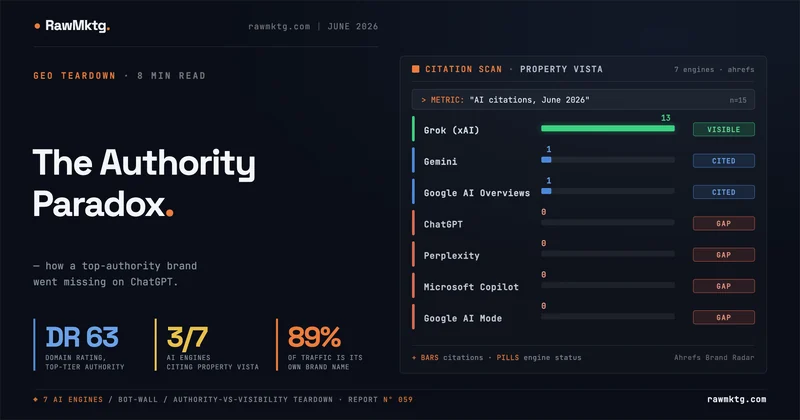
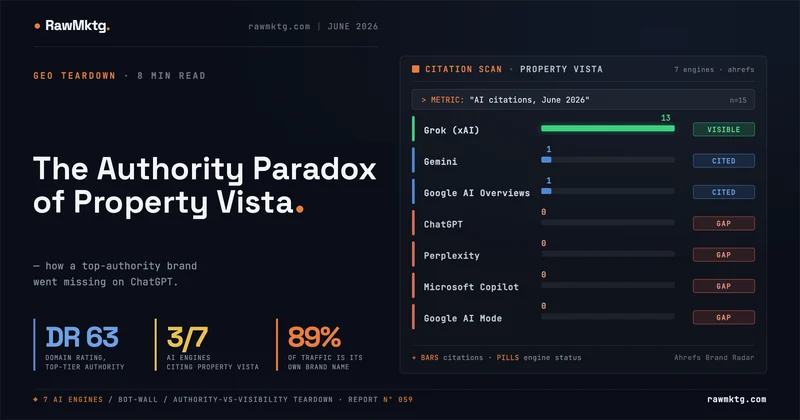
Retitle to 'The Authority Paradox of Property Vista' (text + re-rendered hero in Space Grotesk Bold)

Changed region(s): [[0.0312, 0.3405, 0.4688, 0.5262]]

diff --git a/blogs/property-vista-authority-paradox.html b/blogs/property-vista-authority-paradox.html
@@ -6,7 +6,7 @@
   <script>window.dataLayer=window.dataLayer||[];function gtag(){dataLayer.push(arguments);}gtag('js',new Date());gtag('config','G-4B3LL6MJKN');(function(){function l(){if(window.__gaLd)return;window.__gaLd=1;var s=document.createElement('script');s.async=1;s.src='https://www.googletagmanager.com/gtag/js?id=G-4B3LL6MJKN';document.head.appendChild(s);}if(document.readyState==='complete')l();else window.addEventListener('load',l);setTimeout(l,3000);})();</script>
   <meta name="google-adsense-account" content="ca-pub-5952288317022852" />
   <meta name="robots" content="index, follow" />
-  <title>The Authority Paradox &middot; Property Vista GEO Teardown &middot; rawmktg.</title>
+  <title>The Authority Paradox of Property Vista &middot; rawmktg.</title>
   <meta name="viewport" content="width=device-width, initial-scale=1" />
   <meta name="description" content="A single-brand GEO teardown of Property Vista, a DR-63 multifamily proptech brand with strong backlinks, rich schema and clean technical hygiene that is nearly invisible on ChatGPT and Perplexity. The cause: a JavaScript bot wall that serves every AI crawler a challenge page instead of content." />
   <meta name="author" content="Vinayak Ravi" />
@@ -17,19 +17,19 @@
   <link rel="canonical" href="https://rawmktg.com/blogs/property-vista-authority-paradox" />
   <meta property="og:type" content="article" />
   <meta property="og:url" content="https://rawmktg.com/blogs/property-vista-authority-paradox" />
-  <meta property="og:title" content="The Authority Paradox" />
+  <meta property="og:title" content="The Authority Paradox of Property Vista" />
   <meta property="og:description" content="A single-brand GEO teardown of Property Vista, a DR-63 multifamily proptech brand with strong backlinks, rich schema and clean technical hygiene that is nearly invisible on ChatGPT and Perplexity. The cause: a JavaScript bot wall that serves every AI crawler a challenge page instead of content." />
   <meta property="og:site_name" content="rawmktg." />
   <meta property="og:image" content="https://rawmktg.com/assets/images/property-vista-authority-paradox-header.webp" />
   <meta property="article:published_time" content="2026-06-11T00:00:00Z" />
   <meta property="article:modified_time" content="2026-06-11T00:00:00Z" />
   <meta name="twitter:card" content="summary_large_image" />
-  <meta name="twitter:title" content="The Authority Paradox" />
+  <meta name="twitter:title" content="The Authority Paradox of Property Vista" />
   <meta name="twitter:description" content="A single-brand GEO teardown of Property Vista, a DR-63 multifamily proptech brand with strong backlinks, rich schema and clean technical hygiene that is nearly invisible on ChatGPT and Perplexity. The cause: a JavaScript bot wall that serves every AI crawler a challenge page instead of content." />
   <meta name="twitter:image" content="https://rawmktg.com/assets/images/property-vista-authority-paradox-header.webp" />
-  <script type="application/ld+json">{"@context": "https://schema.org", "@type": "BlogPosting", "headline": "The Authority Paradox", "description": "A single-brand GEO teardown of Property Vista, a DR-63 multifamily proptech brand with strong backlinks, rich schema and clean technical hygiene that is nearly invisible on ChatGPT and Perplexity. The cause: a JavaScript bot wall that serves every AI crawler a challenge page instead of content.", "image": "https://rawmktg.com/assets/images/property-vista-authority-paradox-header.webp", "url": "https://rawmktg.com/blogs/property-vista-authority-paradox", "datePublished": "2026-06-11", "dateModified": "2026-06-11", "author": {"@type": "Person", "name": "Vinayak Ravi", "url": "https://rawmktg.com", "sameAs": ["https://www.linkedin.com/in/vinayakravi/", "https://x.com/vinayaksravi"]}, "publisher": {"@type": "Organization", "name": "rawmktg.", "url": "https://rawmktg.com"}, "mainEntityOfPage": {"@type": "WebPage", "@id": "https://rawmktg.com/blogs/property-vista-authority-paradox"}, "keywords": ["Property Vista", "AI search", "GEO", "AI citations", "bot wall", "crawlability", "llms.txt", "schema", "structured data", "multifamily proptech", "property management software", "Ahrefs Brand Radar"]}</script>
+  <script type="application/ld+json">{"@context": "https://schema.org", "@type": "BlogPosting", "headline": "The Authority Paradox of Property Vista", "description": "A single-brand GEO teardown of Property Vista, a DR-63 multifamily proptech brand with strong backlinks, rich schema and clean technical hygiene that is nearly invisible on ChatGPT and Perplexity. The cause: a JavaScript bot wall that serves every AI crawler a challenge page instead of content.", "image": "https://rawmktg.com/assets/images/property-vista-authority-paradox-header.webp", "url": "https://rawmktg.com/blogs/property-vista-authority-paradox", "datePublished": "2026-06-11", "dateModified": "2026-06-11", "author": {"@type": "Person", "name": "Vinayak Ravi", "url": "https://rawmktg.com", "sameAs": ["https://www.linkedin.com/in/vinayakravi/", "https://x.com/vinayaksravi"]}, "publisher": {"@type": "Organization", "name": "rawmktg.", "url": "https://rawmktg.com"}, "mainEntityOfPage": {"@type": "WebPage", "@id": "https://rawmktg.com/blogs/property-vista-authority-paradox"}, "keywords": ["Property Vista", "AI search", "GEO", "AI citations", "bot wall", "crawlability", "llms.txt", "schema", "structured data", "multifamily proptech", "property management software", "Ahrefs Brand Radar"]}</script>
   <script type="application/ld+json">{"@context": "https://schema.org", "@type": "WebPage", "speakable": {"@type": "SpeakableSpecification", "cssSelector": [".article-headline", ".article-deck", "h2", "h3"]}, "url": "https://rawmktg.com/blogs/property-vista-authority-paradox"}</script>
-  <script type="application/ld+json">{"@context": "https://schema.org", "@type": "BreadcrumbList", "itemListElement": [{"@type": "ListItem", "position": 1, "name": "rawmktg.", "item": "https://rawmktg.com/"}, {"@type": "ListItem", "position": 2, "name": "The Authority Paradox", "item": "https://rawmktg.com/blogs/property-vista-authority-paradox"}]}</script>
+  <script type="application/ld+json">{"@context": "https://schema.org", "@type": "BreadcrumbList", "itemListElement": [{"@type": "ListItem", "position": 1, "name": "rawmktg.", "item": "https://rawmktg.com/"}, {"@type": "ListItem", "position": 2, "name": "The Authority Paradox of Property Vista", "item": "https://rawmktg.com/blogs/property-vista-authority-paradox"}]}</script>
   <script type="application/ld+json">{"@context": "https://schema.org", "@type": "FAQPage", "mainEntity": [{"@type": "Question", "name": "Why is Property Vista nearly invisible on ChatGPT and Perplexity despite strong authority?", "acceptedAnswer": {"@type": "Answer", "text": "Because every page on propertyvista.com sits behind a JavaScript bot-protection challenge. AI crawlers like GPTBot, PerplexityBot and ClaudeBot do not execute JavaScript, so they receive a challenge or error page (HTTP 415 or 503) instead of real HTML. The site's strong backlinks, rich JSON-LD schema and valid sitemap are all invisible to the engines because the engines literally cannot read the page. An engine that can't read you can't cite you."}}, {"@type": "Question", "name": "What is the authority paradox in AI search?", "acceptedAnswer": {"@type": "Answer", "text": "It is the gap between authority earned and authority converted. Property Vista has a Domain Rating of 63, around 1,200 referring domains, and profiles on G2, Gartner and Crunchbase, yet it ranks for only about 80 keywords, has zero citations on ChatGPT and Perplexity, and has lost roughly 53% of its organic traffic in a year. Authority holding flat or rising while traffic falls is the classic fingerprint of a crawl-and-index problem, not a content or link problem."}}, {"@type": "Question", "name": "How do you make a site readable to AI crawlers?", "acceptedAnswer": {"@type": "Answer", "text": "Allow-list verified AI and search bots through any bot-protection layer so they bypass JavaScript challenges, then confirm with their real user agents that they receive a 200 and real HTML. Declare access explicitly in robots.txt, publish an llms.txt that maps your key pages, and add SoftwareApplication and FAQPage schema so engines know what you are and can lift your answers. These are days of work, not a replatform."}}]}</script>
   <script type="application/ld+json">{"@context": "https://schema.org", "@type": "Person", "name": "Vinayak Ravi", "url": "https://rawmktg.com", "sameAs": ["https://www.linkedin.com/in/vinayakravi/", "https://x.com/vinayaksravi"]}</script>
   <script type="application/ld+json">{"@context": "https://schema.org", "@type": "Organization", "name": "rawmktg.", "url": "https://rawmktg.com", "sameAs": ["https://www.linkedin.com/company/rawmktg/"]}</script>
@@ -304,12 +304,12 @@
   </div>
 </nav>
 
-<img src="/assets/images/property-vista-authority-paradox-header.webp" srcset="/assets/images/property-vista-authority-paradox-header-800.webp 800w, /assets/images/property-vista-authority-paradox-header-1200.webp 1200w, /assets/images/property-vista-authority-paradox-header-1600.webp 1600w, /assets/images/property-vista-authority-paradox-header.webp 2400w" sizes="100vw" alt="The Authority Paradox - rawmktg." class="article-header-img" width="2400" height="1260" loading="eager">
+<img src="/assets/images/property-vista-authority-paradox-header.webp" srcset="/assets/images/property-vista-authority-paradox-header-800.webp 800w, /assets/images/property-vista-authority-paradox-header-1200.webp 1200w, /assets/images/property-vista-authority-paradox-header-1600.webp 1600w, /assets/images/property-vista-authority-paradox-header.webp 2400w" sizes="100vw" alt="The Authority Paradox of Property Vista - rawmktg." class="article-header-img" width="2400" height="1260" loading="eager">
 
 <div class="page">
   <header class="article-header">
     <div class="article-eyebrow"><span class="eyebrow-tag">GEO Teardown &middot; Multifamily Proptech</span><span class="eyebrow-sep">&middot;</span><span class="eyebrow-date">June 2026</span></div>
-    <h1 class="article-headline">The Authority Paradox</h1>
+    <h1 class="article-headline">The Authority Paradox of Property Vista</h1>
     <p class="article-deck">How a DR-63 brand with G2, Gartner and Crunchbase backlinks became nearly invisible on ChatGPT and Perplexity.</p>
     <p class="article-data-note">Data: Ahrefs Site Explorer and Brand Radar, plus direct technical inspection of propertyvista.com, captured June 2026. Figures are estimates; example code is illustrative.</p>
   </header>

diff --git a/index.html b/index.html
@@ -296,10 +296,10 @@
     </div>
     <div class="article-grid" role="list">
       <a href="/blogs/property-vista-authority-paradox" class="article-card" role="listitem">
-        <img src="/assets/images/property-vista-authority-paradox-header-card.webp" srcset="/assets/images/property-vista-authority-paradox-header-card-400.webp 400w, /assets/images/property-vista-authority-paradox-header-card-700.webp 700w, /assets/images/property-vista-authority-paradox-header-card.webp 1000w" sizes="(max-width:768px) calc(100vw - 40px), (max-width:1024px) 46vw, 340px" alt="The Authority Paradox - Property Vista GEO teardown" class="card-img" loading="lazy" width="1000" height="525">
+        <img src="/assets/images/property-vista-authority-paradox-header-card.webp" srcset="/assets/images/property-vista-authority-paradox-header-card-400.webp 400w, /assets/images/property-vista-authority-paradox-header-card-700.webp 700w, /assets/images/property-vista-authority-paradox-header-card.webp 1000w" sizes="(max-width:768px) calc(100vw - 40px), (max-width:1024px) 46vw, 340px" alt="The Authority Paradox of Property Vista - GEO teardown" class="card-img" loading="lazy" width="1000" height="525">
         <div class="card-body">
           <div class="card-topic">GEO Teardown &middot; Multifamily Proptech</div>
-          <div class="card-title">The Authority Paradox</div>
+          <div class="card-title">The Authority Paradox of Property Vista</div>
           <p class="card-desc">A DR-63 brand with G2, Gartner and Crunchbase backlinks that is nearly invisible on ChatGPT and Perplexity, and the one infrastructure fix behind it.</p>
           <div class="card-footer"><span class="card-arrow" aria-hidden="true">&rarr;</span></div>
         </div>

diff --git a/topics/industry-teardowns.html b/topics/industry-teardowns.html
@@ -145,10 +145,10 @@
     <div class="article-grid" role="list">
 
       <a href="/blogs/property-vista-authority-paradox" class="article-card" role="listitem">
-        <img src="/assets/images/property-vista-authority-paradox-header-card.webp" srcset="/assets/images/property-vista-authority-paradox-header-card-400.webp 400w, /assets/images/property-vista-authority-paradox-header-card-700.webp 700w, /assets/images/property-vista-authority-paradox-header-card.webp 1000w" sizes="(max-width:768px) calc(100vw - 40px), (max-width:1024px) 46vw, 340px" alt="The Authority Paradox - Property Vista GEO teardown" class="card-img" loading="lazy" width="1000" height="525">
+        <img src="/assets/images/property-vista-authority-paradox-header-card.webp" srcset="/assets/images/property-vista-authority-paradox-header-card-400.webp 400w, /assets/images/property-vista-authority-paradox-header-card-700.webp 700w, /assets/images/property-vista-authority-paradox-header-card.webp 1000w" sizes="(max-width:768px) calc(100vw - 40px), (max-width:1024px) 46vw, 340px" alt="The Authority Paradox of Property Vista - GEO teardown" class="card-img" loading="lazy" width="1000" height="525">
         <div class="card-body">
           <div class="card-topic">GEO Teardown &middot; Multifamily Proptech</div>
-          <div class="card-title">The Authority Paradox</div>
+          <div class="card-title">The Authority Paradox of Property Vista</div>
           <p class="card-desc">A DR-63 brand with G2, Gartner and Crunchbase backlinks that is nearly invisible on ChatGPT and Perplexity, and the one infrastructure fix behind it.</p>
           <div class="card-footer"><span class="card-arrow" aria-hidden="true">&rarr;</span></div>
         </div>

diff --git a/index.md b/index.md
@@ -6,7 +6,7 @@
 
 ## Articles
 
-- [The Authority Paradox](https://rawmktg.com/blogs/property-vista-authority-paradox)
+- [The Authority Paradox of Property Vista](https://rawmktg.com/blogs/property-vista-authority-paradox)
 - [What Noterro Gets Right About AI Search](https://rawmktg.com/blogs/noterro-ai-search-teardown)
 - [When Buyers Ask AI Which HR Software to Use, One Brand Owns the Answer](https://rawmktg.com/blogs/hr-saas-ai-visibility-gap)
 - [Beyond Cross-Border: Where India's Global-Payments Brands Actually Earn Their Backlinks](https://rawmktg.com/blogs/cross-border-backlinks)

diff --git a/blogs/property-vista-authority-paradox.md b/blogs/property-vista-authority-paradox.md
@@ -1,4 +1,4 @@
-# The Authority Paradox
+# The Authority Paradox of Property Vista
 
 > How a DR-63 brand with G2, Gartner and Crunchbase backlinks became nearly invisible on ChatGPT and Perplexity.
 
